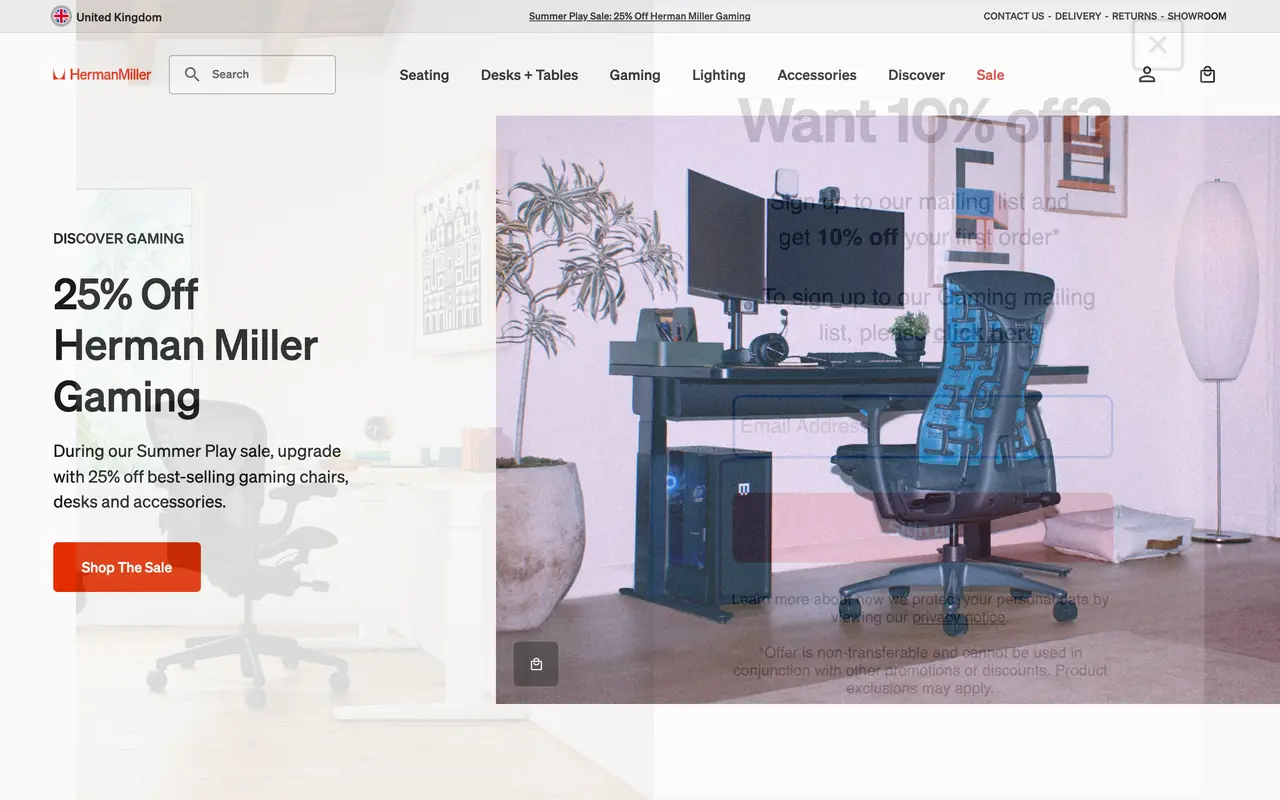
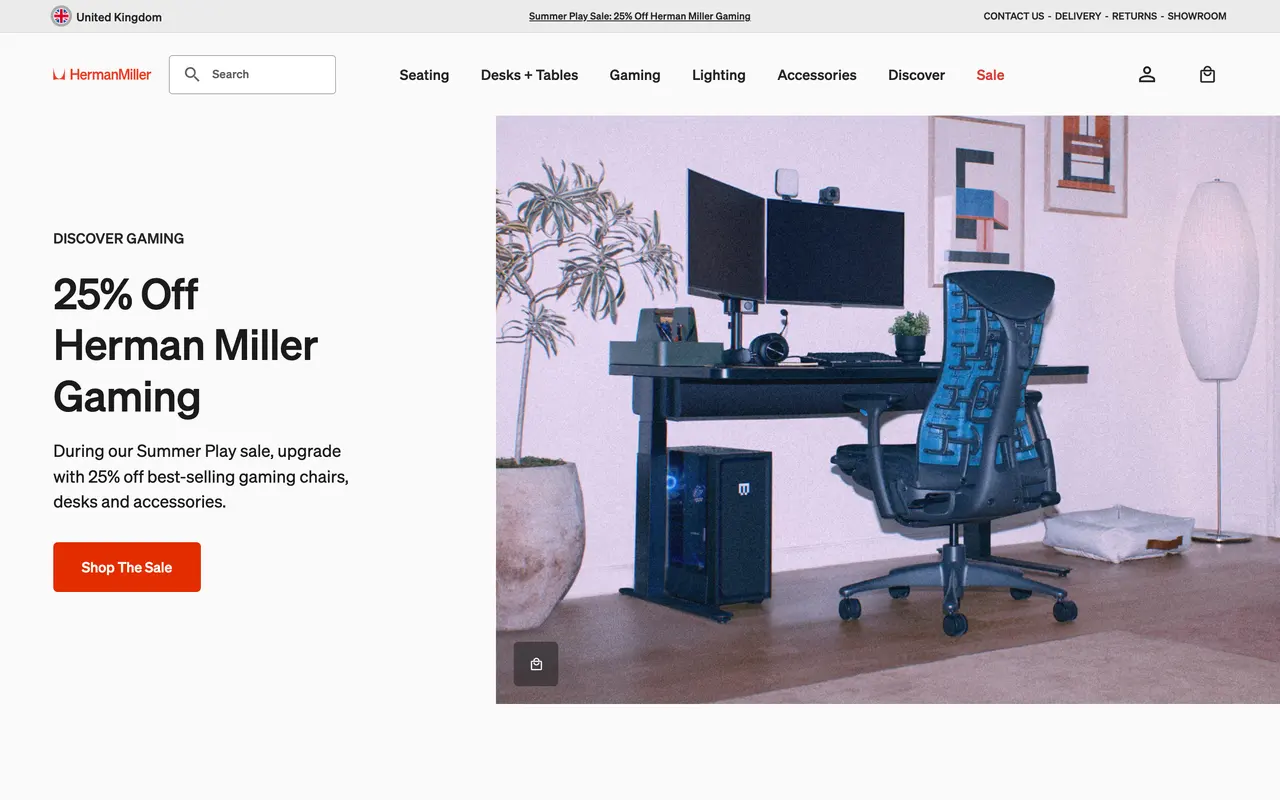
work: replace the archive row list with an editorial card grid
Fifteen text rows read as a database table, not a portfolio — you had to
hover to see anything, and scanning it meant reading every line. The archive
is now a three-column card grid: each record leads with its real screenshot,
then record id and year, the brand, our role in mono, the summary, and a
hairline footer with platform and country.

The cursor-tracked hover preview goes with it. It was the most enjoyable part
to build, but once every card carries its own image the floating panel is
redundant — and it never existed on touch devices anyway. Internal systems
with no public site get a dashed wireframe tile so the gap reads as
deliberate.

Also restored two hero frames from earlier commits: the Herman Miller capture
had caught a newsletter pop-up, and Online Carpets serves a clearance listing
to headless browsers.

diff --git a/src/styles/global.css b/src/styles/global.css
@@ -178,20 +178,20 @@
   .pd-spec p { @apply text-lg text-ink-2; }
   .pd-feat .f { @apply flex gap-2.5 text-base text-ink-2; }
 
-  /* ---- work: archive ---- */
-  .archive { @apply border-t border-line-2; }
-  .arow { @apply grid items-center gap-x-6 gap-y-3 py-5 md:py-6 border-b border-line transition; grid-template-columns:9rem 1.15fr 1.5fr auto; }
-  .arow:hover { @apply bg-surface; }
-  .arow .athumb { @apply block overflow-hidden rounded-lg border border-line bg-surface; aspect-ratio:16/10; }
-  .arow .athumb img { @apply block w-full h-full object-cover object-top; }
-  .arow .athumb-none { @apply grid place-items-center w-full h-full font-mono text-faint text-center px-1 bg-paper; font-size:.6rem; border:1px dashed var(--line-2); border-radius:.4rem; }
-  .arow .ttl { @apply text-xl font-bold tracking-tight2 leading-tight transition-colors; }
-  .arow .ttl .id { @apply block font-mono text-xs not-italic text-accent-ink font-normal mb-1.5; }
-  .arow .ttl em { @apply block font-mono text-label not-italic text-muted mt-1.5 font-normal; }
-  .arow .body { @apply text-base text-ink-2; }
-  .arow .tags { @apply font-mono text-label text-muted text-right whitespace-nowrap leading-relaxed; }
-  .arow:hover .ttl { @apply text-accent-ink; }
-  .arow:hover .athumb { @apply border-line-2; }
+  /* ---- work: the archive grid ---- */
+  .agrid { @apply grid grid-cols-1 gap-6 sm:grid-cols-2 lg:grid-cols-3; }
+  .acard { @apply flex flex-col bg-surface border border-line rounded-2xl p-4 md:p-5 transition hover:-translate-y-1 hover:shadow-lift hover:border-line-2; }
+  .acard .ashot { @apply block overflow-hidden rounded-xl border border-line bg-paper mb-5; aspect-ratio:16/10; }
+  .acard .ashot img { @apply block w-full h-full object-cover object-top; }
+  .acard .ashot-none { @apply grid place-items-center w-full h-full font-mono text-label text-faint text-center px-3; }
+  .acard .ameta { @apply flex justify-between gap-3 font-mono text-label text-muted not-italic; }
+  .acard .ameta .id { @apply text-accent-ink not-italic; }
+  .acard .ameta i { @apply not-italic; }
+  .acard h3 { @apply text-h3 font-bold tracking-tight2 mt-2.5 transition-colors; }
+  .acard .arole { @apply block font-mono text-label text-muted mt-2; }
+  .acard p { @apply text-base text-ink-2 mt-3.5 flex-1; }
+  .acard .afoot { @apply block font-mono text-label text-muted mt-5 pt-4 border-t border-line; }
+  .acard:hover h3 { @apply text-accent-ink; }
 
   /* ---- work: filter bar ---- */
   .afilter { @apply flex flex-wrap items-center gap-x-5 gap-y-3 pb-5 mb-1 border-b border-line; }
@@ -201,7 +201,6 @@
   .achip.on { @apply bg-ink text-paper border-ink; }
   .achip i { @apply not-italic opacity-55; font-size:.65rem; }
   .acount { @apply font-mono text-label uppercase text-muted sm:ml-auto; }
-  .ahint { @apply hidden lg:block font-mono text-label text-muted mt-7; }
 
   /* ---- work: the floating specimen ---- */
   .apwin { @apply rounded-xl overflow-hidden bg-surface border border-line; box-shadow:0 30px 60px -30px rgba(28,27,24,.45); }
@@ -505,10 +504,6 @@
   .pd, .pd-feat { grid-template-columns:1fr; }
   .pd-spec { border-right:0; border-bottom:1px solid var(--line); }
   .pd.rev .pd-spec { order:-1; border-left:0; border-bottom:1px solid var(--line); }
-  .arow { grid-template-columns:6.5rem 1fr; }
-  .arow .body { grid-column:2; }
-  .arow .tags { grid-column:2; text-align:left; }
-  .arow .tags br { display:none; }
 }
 @media (max-width:820px) { .princ { grid-template-columns:1fr 1fr; } }
 @media (max-width:767px) { .srow { grid-template-columns:2.5rem 1fr; } }
@@ -544,19 +539,8 @@ body.nav-open .menu-btn .ic-close { display:block; }
 /* work archive — checklist marker + filtered-out rows */
 .case-did li { break-inside:avoid; }
 .case-did li::before { content:"✓"; color:var(--accent); font-family:var(--mono); }
-.arow.gone { display:none; }
+.acard.gone { display:none; }
 
-/* work archive — the cursor-tracked live preview (precise pointers only) */
-.apreview {
-  position:fixed; left:var(--px,50%); top:var(--py,50%); z-index:60; width:26rem;
-  pointer-events:none; opacity:0;
-  transform:translate(1.5rem,-50%) scale(.97);
-  transition:opacity .18s var(--ease), transform .18s var(--ease);
-}
-.apreview.on { opacity:1; transform:translate(1.5rem,-50%) scale(1); }
-.apreview.flip { transform:translate(calc(-100% - 1.5rem),-50%) scale(.97); }
-.apreview.flip.on { transform:translate(calc(-100% - 1.5rem),-50%) scale(1); }
-@media (max-width:1023px), (hover:none) { .apreview { display:none; } }
 
 /* accessibility */
 a:focus-visible, .btn:focus-visible { outline:2px solid var(--accent); outline-offset:3px; }
